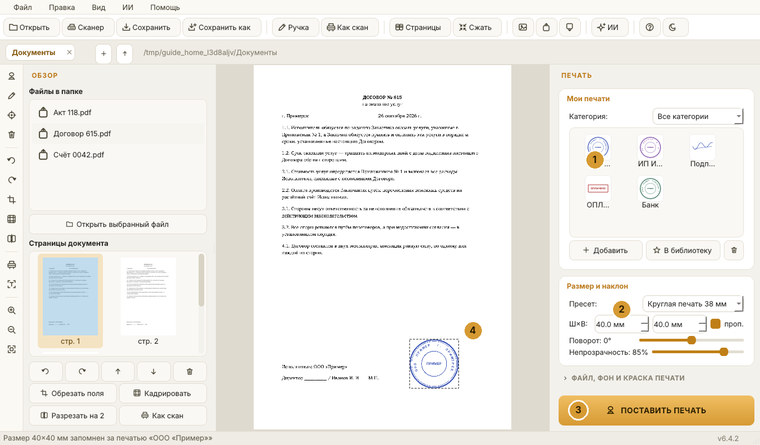
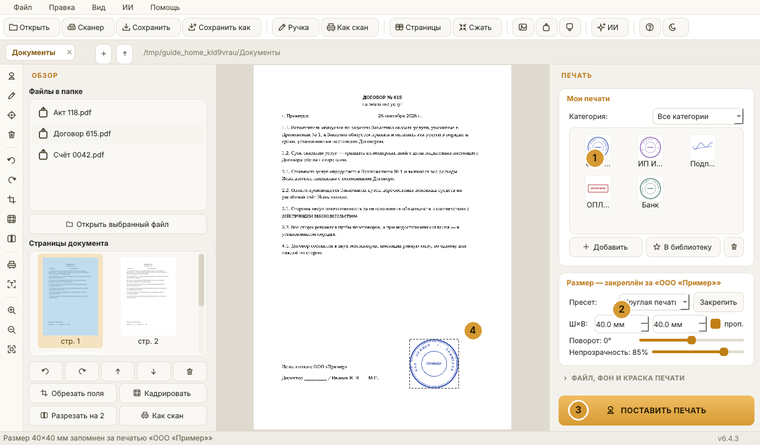
6.4.3: готовый список сервисов ИИ для подключения, размер за печатью — заголовок и кнопка «Закрепить»
Claude-Session: https://claude.ai/code/session_01S2yJaDiaX6YUxFfadFNC79

diff --git a/stamp_studio_canon.py b/stamp_studio_canon.py
@@ -507,7 +507,7 @@ QProgressBar::chunk { background: #d69a33; border-radius: 3px; }
 SETTINGS_JSON = os.path.join(LIB_DIR, "settings.json")
 
 # ---------------------------------------------------------------- версия и обновления
-APP_VERSION = "6.4.2"
+APP_VERSION = "6.4.3"
 EDITION = "canon"                 # main — основная, canon — для сканеров Canon
 APP_TITLE = "Stamp Studio" + (" Canon" if EDITION == "canon" else "")
 GITHUB_URL = "https://github.com/alegawhats-del/StampStudio"
@@ -5175,8 +5175,8 @@ class AiSettingsDialog(QDialog):
         super().__init__(parent)
         self.setWindowTitle("Настройки ИИ")
         self.setWindowFlag(Qt.WindowContextHelpButtonHint, False)
-        self.resize(860, 600)
-        self.setMinimumSize(820, 580)
+        self.resize(880, 680)
+        self.setMinimumSize(820, 640)
         s = settings_load()
         self.keys = dict(s.get("ai_keys") or {})
         self.models = dict(s.get("ai_models") or {})
@@ -5418,8 +5418,11 @@ class AiSettingsDialog(QDialog):
         self.lst.blockSignals(True)
         self.lst.clear()
         ranked = sorted(AI.PROVIDERS, key=lambda p: -p["stars"])
+        rest = [p for p in ranked if not self._connected(p)]
         groups = (("ПОДКЛЮЧЕНЫ", [p for p in ranked if self._connected(p)]),
-                  ("ДОСТУПНЫ — НУЖЕН КЛЮЧ", [p for p in ranked if not self._connected(p)]))
+                  ("МОЖНО ДОБАВИТЬ — БЕСПЛАТНЫЕ", [p for p in rest if not p.get("paid") and not p.get("custom")]),
+                  ("МОЖНО ДОБАВИТЬ — ПЛАТНЫЕ", [p for p in rest if p.get("paid")]),
+                  ("ДРУГОЕ", [p for p in rest if p.get("custom")]))
         for title, items in groups:
             if not items:
                 continue
@@ -5487,6 +5490,8 @@ class AiSettingsDialog(QDialog):
         self.lbl_name.setText(name.split(" (")[0] + ("   · основной" if name == self.chosen else ""))
         stars = ("★" * p["stars"] + "☆" * (5 - p["stars"]) + "   ") if p["stars"] else ""
         state = self._state(p)
+        if state == "нужен ключ":
+            state = "нужен ключ — нажмите «Получить ключ», вставьте его ниже и нажмите «Проверить»"
         self.lbl_best.setText(f"{stars}{state}<br><b>Лучше всего для:</b> {p['tasks']}<br>"
                               f"<b>Почему:</b> {p['why']}")
         self.lbl_count.setText(AI.count_text(name))
@@ -6038,12 +6043,14 @@ class MainWindow(QMainWindow):
         self.view = EditorView(self.scene)
         self.setCentralWidget(self.view)
         self.scene.selectionChanged.connect(self.sync_panel_from_selection)
+        self.scene.selectionChanged.connect(self._update_geom_title)
 
         self._build_mascot()
         self._build_toolbar()
         self._build_dir_bar()
         self._build_side_panel()
         self._build_menubar()
+        self._update_geom_title()
         self.reload_library()
         self.theme = settings_load().get("theme", "light")
         self.apply_theme()
@@ -7754,6 +7761,7 @@ class MainWindow(QMainWindow):
         self.stamp_raw = pil
         self.stamp_src_path = None
         self.current_lib_file = None
+        self._update_geom_title()
         self.stamp_pil = pil
         self.stamp_pixmap = pm
         self.stamp_status = "подпись ручкой"
@@ -7783,6 +7791,28 @@ class MainWindow(QMainWindow):
         if sel:
             return getattr(sel[0], "lib_file", None)
         return getattr(self, "current_lib_file", None)
+
+    def _update_geom_title(self):
+        """В заголовке карточки видно, за какой печатью закрепляется размер."""
+        if not hasattr(self, "gb_geom"):
+            return
+        name = ""
+        target = self._lib_target_file()
+        if target:
+            name = next((e["name"] for e in lib_load() if e.get("file") == target), "")
+        if len(name) > 17:
+            name = name[:16] + "…"
+        self.gb_geom.setTitle(f"Размер — закреплён за «{name}»" if name else "Размер и наклон")
+        self.btn_pin.setEnabled(bool(name))
+
+    def pin_stamp_size(self):
+        target = self._lib_target_file()
+        if not target:
+            self.show_toast("Сначала выберите печать в «Моих печатях»")
+            return
+        self._remember_stamp_now()
+        name = next((e["name"] for e in lib_load() if e.get("file") == target), "печать")
+        self.show_toast(f"✔  {self.spin_w.value():g}×{self.spin_h.value():g} мм закреплено за «{name}»")
 
     def _remember_stamp_later(self):
         """Отложенная запись — чтобы не писать на диск на каждое движение ползунка."""
@@ -8072,6 +8102,7 @@ class MainWindow(QMainWindow):
 
         # === размер и вид ===
         gb_geom = QGroupBox("Размер и наклон")
+        self.gb_geom = gb_geom
         gb_geom.setSizePolicy(QSizePolicy.Preferred, QSizePolicy.Maximum)
         gl = QVBoxLayout(gb_geom)
         gl.setContentsMargins(8, 4, 8, 6)
@@ -8079,11 +8110,16 @@ class MainWindow(QMainWindow):
 
         self.preset_box = QComboBox()
         self.preset_box.setSizeAdjustPolicy(QComboBox.AdjustToMinimumContentsLengthWithIcon)
-        self.preset_box.setMinimumContentsLength(14)
+        self.preset_box.setMinimumContentsLength(8)
         for name, w, h in PRESETS:
             self.preset_box.addItem(name, (w, h))
         self.preset_box.currentIndexChanged.connect(self.preset_changed)
-        gl.addLayout(hrow(cap("Пресет:"), self.preset_box))
+        self.btn_pin = QPushButton("Закрепить")
+        self.btn_pin.setToolTip("Закрепить этот размер, поворот и непрозрачность за выбранной печатью.\n"
+                                "В следующий раз она сразу встанет такой. У каждой печати — свои.\n"
+                                "Программа делает это и сама, когда вы меняете размер выбранной печати.")
+        self.btn_pin.clicked.connect(self.pin_stamp_size)
+        gl.addLayout(hrow(cap("Пресет:"), self.preset_box, self.btn_pin))
 
         self.spin_w = QDoubleSpinBox()
         self.spin_w.setRange(3, 300); self.spin_w.setValue(40)
@@ -8284,6 +8320,7 @@ class MainWindow(QMainWindow):
             return
         self._load_stamp_file(entry["file"], from_library=True)
         self.current_lib_file = entry["file"]
+        self._update_geom_title()
         self.scene.clearSelection()
         ws = (self.spin_w, self.spin_h, self.slider_rot, self.slider_op)
         for wd in ws:
@@ -8394,6 +8431,7 @@ class MainWindow(QMainWindow):
                 sel[0].lib_file = entry["file"]
             else:
                 self.current_lib_file = entry["file"]
+                self._update_geom_title()
         except Exception as e:
             QMessageBox.critical(
                 self, "Не удалось сохранить",
@@ -8528,6 +8566,7 @@ class MainWindow(QMainWindow):
         self.stamp_src_path = None if from_library else path
         if not from_library:
             self.current_lib_file = None
+            self._update_geom_title()
         self.reprocess_stamp()
         return True
 

diff --git a/stamp_studio.py b/stamp_studio.py
@@ -507,7 +507,7 @@ QProgressBar::chunk { background: #d69a33; border-radius: 3px; }
 SETTINGS_JSON = os.path.join(LIB_DIR, "settings.json")
 
 # ---------------------------------------------------------------- версия и обновления
-APP_VERSION = "6.4.2"
+APP_VERSION = "6.4.3"
 EDITION = "main"                 # main — основная, canon — для сканеров Canon
 APP_TITLE = "Stamp Studio" + (" Canon" if EDITION == "canon" else "")
 GITHUB_URL = "https://github.com/alegawhats-del/StampStudio"
@@ -5176,8 +5176,8 @@ class AiSettingsDialog(QDialog):
         super().__init__(parent)
         self.setWindowTitle("Настройки ИИ")
         self.setWindowFlag(Qt.WindowContextHelpButtonHint, False)
-        self.resize(860, 600)
-        self.setMinimumSize(820, 580)
+        self.resize(880, 680)
+        self.setMinimumSize(820, 640)
         s = settings_load()
         self.keys = dict(s.get("ai_keys") or {})
         self.models = dict(s.get("ai_models") or {})
@@ -5419,8 +5419,11 @@ class AiSettingsDialog(QDialog):
         self.lst.blockSignals(True)
         self.lst.clear()
         ranked = sorted(AI.PROVIDERS, key=lambda p: -p["stars"])
+        rest = [p for p in ranked if not self._connected(p)]
         groups = (("ПОДКЛЮЧЕНЫ", [p for p in ranked if self._connected(p)]),
-                  ("ДОСТУПНЫ — НУЖЕН КЛЮЧ", [p for p in ranked if not self._connected(p)]))
+                  ("МОЖНО ДОБАВИТЬ — БЕСПЛАТНЫЕ", [p for p in rest if not p.get("paid") and not p.get("custom")]),
+                  ("МОЖНО ДОБАВИТЬ — ПЛАТНЫЕ", [p for p in rest if p.get("paid")]),
+                  ("ДРУГОЕ", [p for p in rest if p.get("custom")]))
         for title, items in groups:
             if not items:
                 continue
@@ -5488,6 +5491,8 @@ class AiSettingsDialog(QDialog):
         self.lbl_name.setText(name.split(" (")[0] + ("   · основной" if name == self.chosen else ""))
         stars = ("★" * p["stars"] + "☆" * (5 - p["stars"]) + "   ") if p["stars"] else ""
         state = self._state(p)
+        if state == "нужен ключ":
+            state = "нужен ключ — нажмите «Получить ключ», вставьте его ниже и нажмите «Проверить»"
         self.lbl_best.setText(f"{stars}{state}<br><b>Лучше всего для:</b> {p['tasks']}<br>"
                               f"<b>Почему:</b> {p['why']}")
         self.lbl_count.setText(AI.count_text(name))
@@ -6039,12 +6044,14 @@ class MainWindow(QMainWindow):
         self.view = EditorView(self.scene)
         self.setCentralWidget(self.view)
         self.scene.selectionChanged.connect(self.sync_panel_from_selection)
+        self.scene.selectionChanged.connect(self._update_geom_title)
 
         self._build_mascot()
         self._build_toolbar()
         self._build_dir_bar()
         self._build_side_panel()
         self._build_menubar()
+        self._update_geom_title()
         self.reload_library()
         self.theme = settings_load().get("theme", "light")
         self.apply_theme()
@@ -7755,6 +7762,7 @@ class MainWindow(QMainWindow):
         self.stamp_raw = pil
         self.stamp_src_path = None
         self.current_lib_file = None
+        self._update_geom_title()
         self.stamp_pil = pil
         self.stamp_pixmap = pm
         self.stamp_status = "подпись ручкой"
@@ -7784,6 +7792,28 @@ class MainWindow(QMainWindow):
         if sel:
             return getattr(sel[0], "lib_file", None)
         return getattr(self, "current_lib_file", None)
+
+    def _update_geom_title(self):
+        """В заголовке карточки видно, за какой печатью закрепляется размер."""
+        if not hasattr(self, "gb_geom"):
+            return
+        name = ""
+        target = self._lib_target_file()
+        if target:
+            name = next((e["name"] for e in lib_load() if e.get("file") == target), "")
+        if len(name) > 17:
+            name = name[:16] + "…"
+        self.gb_geom.setTitle(f"Размер — закреплён за «{name}»" if name else "Размер и наклон")
+        self.btn_pin.setEnabled(bool(name))
+
+    def pin_stamp_size(self):
+        target = self._lib_target_file()
+        if not target:
+            self.show_toast("Сначала выберите печать в «Моих печатях»")
+            return
+        self._remember_stamp_now()
+        name = next((e["name"] for e in lib_load() if e.get("file") == target), "печать")
+        self.show_toast(f"✔  {self.spin_w.value():g}×{self.spin_h.value():g} мм закреплено за «{name}»")
 
     def _remember_stamp_later(self):
         """Отложенная запись — чтобы не писать на диск на каждое движение ползунка."""
@@ -8073,6 +8103,7 @@ class MainWindow(QMainWindow):
 
         # === размер и вид ===
         gb_geom = QGroupBox("Размер и наклон")
+        self.gb_geom = gb_geom
         gb_geom.setSizePolicy(QSizePolicy.Preferred, QSizePolicy.Maximum)
         gl = QVBoxLayout(gb_geom)
         gl.setContentsMargins(8, 4, 8, 6)
@@ -8080,11 +8111,16 @@ class MainWindow(QMainWindow):
 
         self.preset_box = QComboBox()
         self.preset_box.setSizeAdjustPolicy(QComboBox.AdjustToMinimumContentsLengthWithIcon)
-        self.preset_box.setMinimumContentsLength(14)
+        self.preset_box.setMinimumContentsLength(8)
         for name, w, h in PRESETS:
             self.preset_box.addItem(name, (w, h))
         self.preset_box.currentIndexChanged.connect(self.preset_changed)
-        gl.addLayout(hrow(cap("Пресет:"), self.preset_box))
+        self.btn_pin = QPushButton("Закрепить")
+        self.btn_pin.setToolTip("Закрепить этот размер, поворот и непрозрачность за выбранной печатью.\n"
+                                "В следующий раз она сразу встанет такой. У каждой печати — свои.\n"
+                                "Программа делает это и сама, когда вы меняете размер выбранной печати.")
+        self.btn_pin.clicked.connect(self.pin_stamp_size)
+        gl.addLayout(hrow(cap("Пресет:"), self.preset_box, self.btn_pin))
 
         self.spin_w = QDoubleSpinBox()
         self.spin_w.setRange(3, 300); self.spin_w.setValue(40)
@@ -8285,6 +8321,7 @@ class MainWindow(QMainWindow):
             return
         self._load_stamp_file(entry["file"], from_library=True)
         self.current_lib_file = entry["file"]
+        self._update_geom_title()
         self.scene.clearSelection()
         ws = (self.spin_w, self.spin_h, self.slider_rot, self.slider_op)
         for wd in ws:
@@ -8395,6 +8432,7 @@ class MainWindow(QMainWindow):
                 sel[0].lib_file = entry["file"]
             else:
                 self.current_lib_file = entry["file"]
+                self._update_geom_title()
         except Exception as e:
             QMessageBox.critical(
                 self, "Не удалось сохранить",
@@ -8529,6 +8567,7 @@ class MainWindow(QMainWindow):
         self.stamp_src_path = None if from_library else path
         if not from_library:
             self.current_lib_file = None
+            self._update_geom_title()
         self.reprocess_stamp()
         return True
 

diff --git a/stamp_ai.py b/stamp_ai.py
@@ -83,6 +83,86 @@ PROVIDERS = [
      "key_url": "https://ollama.com/settings/keys", "key_hint": "длинная строка",
      "limit": 0, "stars": 3,
      "best": "проверка документов с текстом; сканы картинкой понимает не каждая модель"},
+    {"name": "Mistral (бесплатно)",
+     "short": "европейский, видит сканы",
+     "why": "бесплатный тариф без карты, модели понимают картинки; хорошо знает европейские языки — польский, немецкий, французский",
+     "tasks": "данные и имя файла для европейских документов (CMR, инвойсы)",
+     "url": "https://api.mistral.ai/v1/chat/completions",
+     "models": ["mistral-small-latest", "pixtral-large-latest", "mistral-medium-latest"],
+     "pick": r"(mistral-(small|medium)|pixtral).*latest",
+     "key_url": "https://console.mistral.ai/api-keys", "key_hint": "строка из 32 знаков",
+     "limit": 0, "stars": 4,
+     "best": "сканы и европейские языки, бесплатный тариф"},
+    {"name": "OpenRouter (бесплатные модели)",
+     "short": "много моделей одним ключом",
+     "why": "один ключ открывает десятки моделей, часть бесплатные; на бесплатных всего около 50 запросов в день",
+     "tasks": "запасной вариант, когда остальные недоступны",
+     "url": "https://openrouter.ai/api/v1/chat/completions",
+     "models": ["openrouter/free"],
+     "pick": r"(gemini|gemma|qwen|llama-4|mistral).*:free",
+     "key_url": "https://openrouter.ai/keys", "key_hint": "sk-or-…",
+     "limit": 50, "stars": 3,
+     "best": "десятки моделей одним ключом, часть бесплатные"},
+    {"name": "GitHub Models (бесплатно)",
+     "short": "ключ — токен GitHub",
+     "why": "бесплатный доступ к моделям OpenAI и другим по токену GitHub; лимит небольшой — десятки запросов в день",
+     "tasks": "проверка и данные, когда нужен ответ уровня GPT без оплаты",
+     "url": "https://models.github.ai/inference/chat/completions",
+     "models": ["openai/gpt-4.1-mini", "openai/gpt-4o-mini"],
+     "pick": r"openai/gpt-.*mini",
+     "key_url": "https://github.com/settings/personal-access-tokens", "key_hint": "github_pat_… (право Models: read)",
+     "limit": 50, "stars": 4,
+     "best": "модели OpenAI бесплатно по токену GitHub"},
+    {"name": "Cerebras (бесплатно)",
+     "short": "очень быстрый, только текст",
+     "why": "отвечает мгновенно, но картинки не понимает — сканы уходят текстом, распознанным на компьютере; при регистрации может попросить карту",
+     "tasks": "проверка и данные из документов с текстом",
+     "url": "https://api.cerebras.ai/v1/chat/completions",
+     "models": ["gpt-oss-120b", "llama-3.3-70b"],
+     "pick": r"(gpt-oss|llama|qwen)",
+     "key_url": "https://cloud.cerebras.ai", "key_hint": "csk-…",
+     "limit": 0, "stars": 3,
+     "best": "мгновенный ответ для документов с текстом"},
+    {"name": "OpenAI (платно)", "paid": True,
+     "short": "GPT, платный",
+     "why": "стабильное высокое качество на сканах и в проверке; оплата за каждый запрос, нужен счёт с балансом",
+     "tasks": "всё, когда важна точность и не жалко копеек за запрос",
+     "url": "https://api.openai.com/v1/chat/completions",
+     "models": ["gpt-5-mini", "gpt-4.1-mini", "gpt-4o-mini"],
+     "pick": r"^gpt-[0-9.]+o?-mini$",
+     "key_url": "https://platform.openai.com/api-keys", "key_hint": "sk-…",
+     "limit": 0, "stars": 5,
+     "best": "высокая точность, оплата за запрос"},
+    {"name": "Anthropic Claude (платно)", "paid": True,
+     "short": "Claude, платный",
+     "why": "лучше всех находит несостыковки и ошибки в длинных договорах, аккуратен с цифрами; оплата за запрос",
+     "tasks": "проверка перед отправкой, данные из сложных документов",
+     "url": "https://api.anthropic.com/v1/chat/completions",
+     "models": ["claude-haiku-5-5", "claude-sonnet-5-5"],
+     "pick": r"claude-(haiku|sonnet)",
+     "key_url": "https://console.anthropic.com/settings/keys", "key_hint": "sk-ant-…",
+     "limit": 0, "stars": 5,
+     "best": "самая внимательная проверка договоров, оплата за запрос"},
+    {"name": "xAI Grok (платно)", "paid": True,
+     "short": "Grok, платный",
+     "why": "быстрые модели со зрением, недорогие; оплата за запрос",
+     "tasks": "данные и имя файла со сканов",
+     "url": "https://api.x.ai/v1/chat/completions",
+     "models": ["grok-4-fast", "grok-4"],
+     "pick": r"grok-.*(fast|vision)",
+     "key_url": "https://console.x.ai", "key_hint": "xai-…",
+     "limit": 0, "stars": 4,
+     "best": "быстро и недорого, видит сканы"},
+    {"name": "DeepSeek (платно)", "paid": True,
+     "short": "дешёвый, только текст",
+     "why": "очень дёшево и умно, но картинки не понимает — сканы уходят текстом, распознанным на компьютере",
+     "tasks": "проверка и данные из документов с текстом",
+     "url": "https://api.deepseek.com/chat/completions",
+     "models": ["deepseek-chat"],
+     "pick": r"deepseek-chat",
+     "key_url": "https://platform.deepseek.com/api_keys", "key_hint": "sk-…",
+     "limit": 0, "stars": 3,
+     "best": "копеечная проверка документов с текстом"},
     {"name": "Pollinations (без ключа)",
      "short": "работает без ключа",
      "why": "ничего не надо настраивать, но медленнее и слабее остальных, бывают отказы",

diff --git a/NOTES.md b/NOTES.md
@@ -1,3 +1,5 @@
+• Размер за печатью теперь видно: в заголовке карточки написано, за какой печатью он закреплён, рядом кнопка «Закрепить»
+• Настройки ИИ: готовый список сервисов, которые можно добавить, — бесплатные (Mistral, OpenRouter, GitHub Models, Cerebras) и платные (OpenAI, Claude, Grok, DeepSeek). У каждого рейтинг, для чего он и почему, кнопка «Получить ключ»
 • Боковая панель инструментов у левого края: печать, ручка, ИИ «на место», поворот, обрезка, кадрирование, разрезка, «как скан», распознавание текста, масштаб — одним щелчком
 • Настройки ИИ: сервисы разделены на «Подключены» и «Доступны», у каждого рейтинг, для чего он лучше всего и почему
 • Проверка всей программы: каждое действие и кнопка прогнаны автоматически во всех состояниях; закрытие окна во время запроса ИИ больше не оставляет висящих запросов
